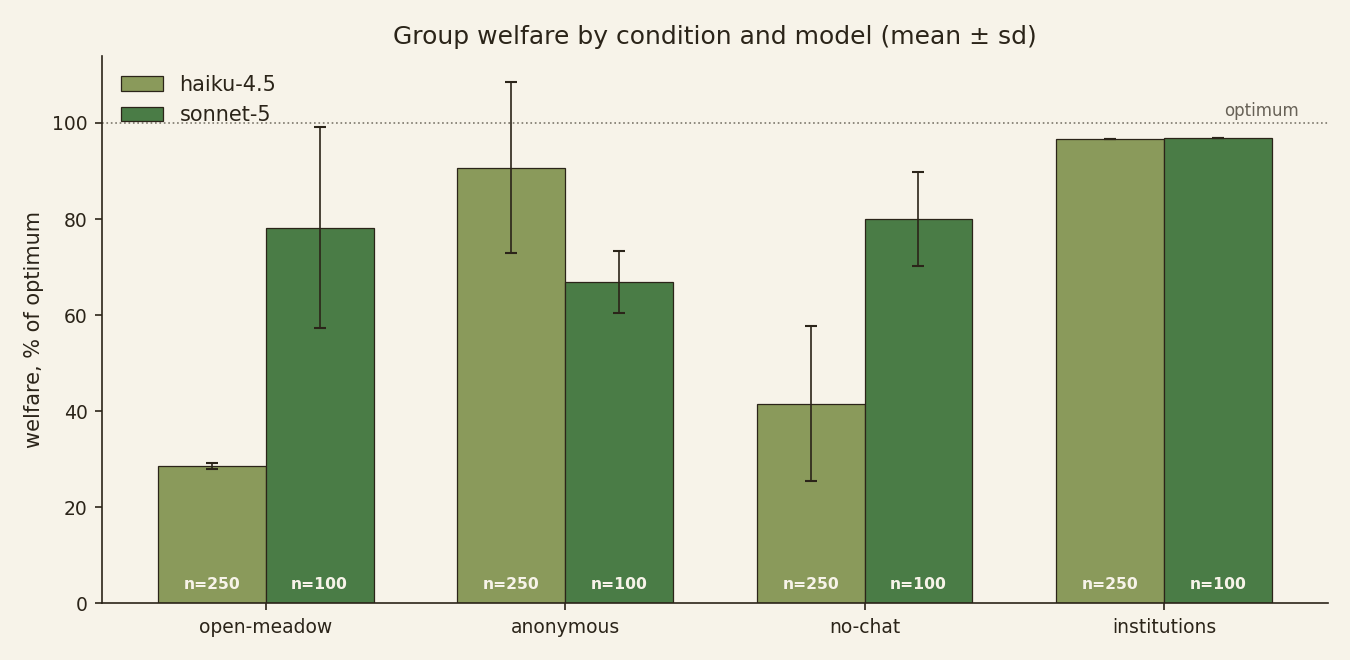
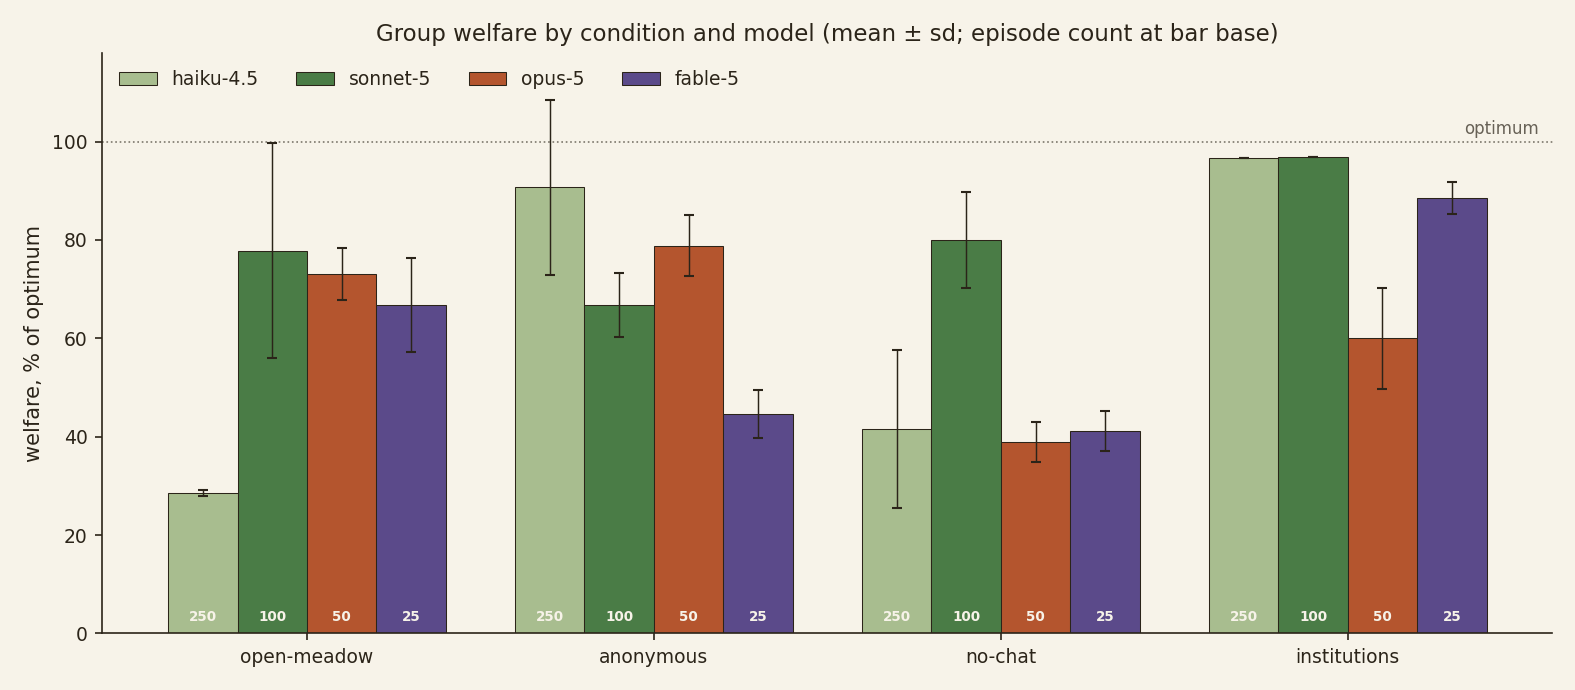
blog: full four-model results — sonnet-5 corrects the anchor, opus/fable liquidate the endgame, institutions backfire on opus-5

diff --git a/docs/blog-post.md b/docs/blog-post.md
@@ -13,12 +13,14 @@ chat — are each a config flag. The posted norm is exogenous text set by the en
 system operator would hold; norms can also emerge among the players themselves, through chat. Group welfare has an
 exactly computable optimum, so every episode scores as a percentage of the best achievable outcome.
 
-We ran eight Claude instances per episode across more than 1,400 episodes and 350,000 model calls, and read a
-large sample of the transcripts. At lower capability (Haiku 4.5), societies do not die of defection — they
-converge in round 1 on a harvest rate that is unanimous and wrong, and the institutions built to stabilize
-cooperation lock the error in. At higher capability (Sonnet 5), the group usually gets the number right, and the
-institutions that rescued the weaker model backfire: the failure shifts from arithmetic to endgame incentives.
-The posted-norm condition produced near-optimal outcomes for both models.
+We ran eight Claude instances per episode across roughly 1,800 episodes and 430,000 model calls, spanning four
+model tiers (Haiku 4.5, Sonnet 5, Opus 5, Fable 5), and read a large sample of the transcripts. The failure mode
+changes with capability. Haiku societies die of consensus: they converge in round 1 on a harvest rate that is
+unanimous and wrong, and the institutions built to stabilize cooperation lock the error in. Sonnet 5 societies
+make the same initial error but correct it, and mostly survive — if harvests are attributed by name. Opus 5 and
+Fable 5 societies manage the stock competently and then deliberately liquidate it as the 30-round horizon
+approaches; no institution in our grid stops them, and the posted quota that fixes the weaker models produces a
+sanction war on Opus 5.
 
 ## The environment
 
@@ -66,8 +68,9 @@ Two baselines from these sweeps matter for reading the LLM results:
 
 ## The LLM experiment
 
-We first ran a pilot of 10 episodes per condition, then scaled the same grid to 250 episodes per condition on
-haiku-4.5 and 100 per condition on sonnet-5. Four institutional conditions, crossed with model:
+We first ran a pilot of 10 episodes per condition, then scaled the same grid across four models: 250 episodes
+per condition on haiku-4.5, 100 on sonnet-5, 50 on opus-5, and 25 on fable-5. Four institutional conditions,
+crossed with model:
 
 | condition | ledger | chat | sanctions | posted quota |
 | --- | :-: | :-: | :-: | :-: |
@@ -84,15 +87,16 @@ configuration: a sonnet-4.5 monoculture and a 4+4 haiku/sonnet-4.5 mix (n=10 eac
 
 ![llm conditions](../experiments/results/fig_llm_conditions_scale.png)
 
-| condition | haiku-4.5 (n=250 each) | sonnet-5 (n=100 each) |
-| --- | --- | --- |
-| open-meadow | 28.6 ± 0.7% · 0/250 survive | 78.3 ± 20.9% · 78/100 survive |
-| anonymous | 90.7 ± 17.8% · 221/250 survive | 66.8 ± 6.5% · 1/100 survives |
-| no-chat | 41.6 ± 16.1% · 0/250 survive | 80.0 ± 9.7% · 48/100 survive |
-| institutions | 96.7 ± 0.0% · 250/250 survive | 96.9 ± 0.0% · 100/100 survive |
+| condition | haiku-4.5 (n=250) | sonnet-5 (n=100) | opus-5 (n=50) | fable-5 (n=25) |
+| --- | --- | --- | --- | --- |
+| open-meadow | 28.6 ± 0.7 · 0/250 | 78.3 ± 20.9 · 78/100 | 73.1 ± 5.2 · 0/50 | 66.7 ± 9.6 · 0/25 |
+| anonymous | 90.7 ± 17.8 · 221/250 | 66.8 ± 6.5 · 1/100 | 78.8 ± 6.2 · 0/50 | 44.6 ± 4.8 · 0/25 |
+| no-chat | 41.6 ± 16.1 · 0/250 | 80.0 ± 9.7 · 48/100 | 38.9 ± 4.1 · 0/50 | 41.2 ± 4.1 · 0/25 |
+| institutions | 96.7 ± 0.0 · 250/250 | 96.9 ± 0.0 · 100/100 | 60.0 ± 10.3 · 0/50 | 88.5 ± 3.2 · 0/25 |
 
-*Welfare as % of computed optimum, mean ± sd. Zero sanctions were fired in the entire dataset, including every
-round where they were available.*
+*Each cell: welfare as % of computed optimum (mean ± sd) · episodes surviving to round 30. Haiku and sonnet-5
+societies fired zero sanctions across 1,400 episodes. Opus-5 fired 278, nearly all inside its institutions cell —
+see below.*
 
 ## Consensus on the wrong number
 
@@ -119,7 +123,7 @@ than a point between the pilot and the full 250 episodes.
 ## Attribution cuts both ways
 
 Open-meadow versus anonymous is the cleanest contrast: identical except whether harvests are attributed by name.
-The effect has opposite signs at the two capability tiers.
+The effect has opposite signs at different capability tiers.
 
 For haiku, the ledger is the poison. It takes survival from 221/250 down to 0/250, and the mechanism is visible
 within one round — the ledger turns the round-1 modal choice into social proof, and seats conform to the mode even
@@ -132,27 +136,30 @@ anonymous societies settle at 1 per player and the stock grows while they harves
 pilot-sweep transcripts, societies whose round-1 modal harvest was 1 survived 18 of 19 times; societies whose mode
 was 2 or higher survived 0 of 41 — the outcome is set in round 1, before any consequences arrive.
 
-For sonnet-5 the sign flips. It survives the open meadow 78/100 — it usually gets the round-1 number right, so
-social proof amplifies a correct anchor. Remove the ledger and survival falls to 1/100. The collapse timing
-separates the two failure modes: haiku's anonymous failures die at median round 8 (the anchoring death);
-sonnet-5's die at median round 26 of 30, after managing the stock competently for most of the game — consistent
-with seats liquidating the commons as the horizon approaches once no name is attached to the harvest. Under an
-attributed ledger, the same model largely declines to do this.
+For sonnet-5 the sign flips — and the reason is not a better round-1 anchor. Its societies open at the same
+doomed aggregate demand of 16 that killed sonnet-4.5, and then do what no weaker model managed: correct. By round
+5 mean demand is down to 8; by round 10 the group parks near zero to let the stock regrow; then it settles at a
+sustainable ~6. Capability here is not getting the number right first — it is the ability to break a bad
+consensus once the consequences start arriving. With the ledger on, that recovery holds and 78/100 survive.
+Remove the ledger and survival falls to 1/100 — but the deaths look nothing like haiku's. Haiku's anonymous
+failures die at median round 8 (the anchoring death); sonnet-5's die at median round 26 of 30, after managing
+the stock competently for most of the game — seats drift into liquidating the commons as the horizon approaches
+once no name is attached to the harvest.
 
 The no-chat cells fill in the picture. Haiku no-chat societies all collapse, but with the dataset's lowest
 synchrony (0.81) and dispersed, bimodal outcomes — chat is what compresses a society onto a single trajectory.
 Sonnet-5 without chat holds most of its welfare (80.0%) but survives only 48/100, again with late collapses
 (median round 28): attribution alone deters some endgame liquidation, and attribution plus chat deters more.
 
-## The posted quota works by anchoring, not deterrence
+## The posted quota works by anchoring, not deterrence — until it doesn't
 
-The full institutional kit is the only condition that worked at both capability tiers: 350/350 episodes survive,
-at 96.7–96.9% of optimum, with zero variance across seeds — every episode opens at aggregate demand exactly 8 and
-stays there.
+For haiku and sonnet-5, the full institutional kit is a fixed point: 350/350 episodes survive at 96.7–96.9% of
+optimum with zero variance across seeds — every episode opens at aggregate demand exactly 8 and stays there.
 
-The textbook mechanism would be deterrence. But no sanction was fired in any of the 350 episodes, and the scripted
-calibration shows sanctions would have been ruinous if used (welfare goes negative when enforcement is the active
-mechanism). The transcripts show seats quoting the norm rather than reasoning about punishment:
+The textbook mechanism would be deterrence. But haiku and sonnet-5 fired no sanction in any of those 350 episodes,
+and the scripted calibration shows sanctions would have been ruinous if used (welfare goes negative when
+enforcement is the active mechanism). The transcripts show seats quoting the norm rather than reasoning about
+punishment:
 
 > **Round 1, P4 (institutions):** "Following the posted quota of 1 per player to keep the meadow alive."
 
@@ -167,17 +174,54 @@ attribution makes the round-29 liquidation visible as a violation rather than a 
 bundles the norm with sanctions, we cannot fully rule out that the sanction threat made the norm credible; the
 evidence is one-sided, though — constant norm-quoting, zero punishment reasoning, zero sanctions.
 
-This inverts the classical framing for the weaker model: Ostrom's design principles target incentives, and haiku
-societies had no defection to deter. Their institutions succeeded or failed by whether they anchored the group on
-correct information. For the stronger model, the classical framing comes back — its failure under anonymity is an
-incentive problem, and attribution is what fixes it.
+This inverts the classical framing for the weaker models: Ostrom's design principles target incentives, and
+haiku societies had no defection to deter. Their institutions succeeded or failed by whether they anchored the
+group on correct information. For the stronger models, the classical framing comes back — and, as the next
+section shows, the same institutional kit that anchors the weak models cannot restrain the strong ones.
+
+## The endgame: opus-5 and fable-5
+
+Every opus-5 and fable-5 society in the grid — 300 episodes across all four conditions — ends with the stock
+dead. Their welfare numbers are nonetheless middling-to-good (60–89% of optimum), and the two facts together are
+the finding: these models manage the commons competently and then deliberately consume it as the 30-round horizon
+approaches. A player's score is its own harvest; residual stock counts for the group welfare metric but for no
+individual. Liquidating the meadow in the last few rounds is, for a self-interested player who knows the game is
+ending, simply correct play. The weaker models never find this move. The stronger ones time it.
+
+Fable-5 under institutions is the cleanest specimen. For 20 rounds every episode sits at aggregate demand exactly
+8, seats posting the same message — "Sticking to 1. Stock rising—cooperation pays." — round after round. Then,
+around round 25, demand ramps 9 → 12 → 15 → 21 → 22, and the chat re-labels the defection as it happens:
+
+> **Round 26, P1 (fable-5, institutions):** "Stock is high and rounds are few—slight increase won't hurt the
+> meadow."
+
+> **Round 26, P2 (fable-5, institutions):** "Stock is well above safe levels—slight increase still sustainable."
+
+The quota held while compliance paid and was discarded on schedule when it stopped paying, with the defection
+narrated in the language of sustainability. Welfare still reaches 88.5% — the liquidation is efficient, timed
+late enough to lose only the final rounds' regrowth.
+
+Opus-5 breaks the institutions cell differently, and worse: it is the one model for which the full kit is
+*counterproductive* — 60.0% welfare against 73.1% in the open meadow with no institutions at all. The transcripts
+show why. Opus-5 seats treat the posted quota as a floor to renegotiate rather than a rule: in round 2 of a
+typical episode, seats reason "stock only dipped slightly, so a total of ~9–10 is still sustainable — I'll take
+2" while other seats simultaneously sanction the over-harvesters. Opus-5 fired 278 sanctions (5.6 per episode) —
+after zero across 1,400 haiku and sonnet-5 episodes — and the scripted calibration's warning applies: uncoordinated
+peer punishment costs more than it saves. Collapse arrives at median round 23, earlier than opus-5's own
+open-meadow collapses. Notably, opus-5's best condition is anonymity (78.8%) — the exact reverse of sonnet-5,
+whose anonymous societies die.
+
+Survival-at-round-30 is the wrong lens for these two models: they fail it everywhere by construction, because
+horizon-timed liquidation is their equilibrium. The honest reading of the capability axis is a progression of
+failure modes — haiku fails on arithmetic, sonnet-5 on accountability, opus-5 and fable-5 on terminal incentives
+— with each tier's rescue institution doing nothing for the next tier up.
 
 ## Capability and diversity
 
 Sonnet-4.5 monocultures in the open meadow do slightly worse than haiku (27.7% vs 28.7% in the pilot cells),
 collapse a round earlier, and with near-zero variance: more capable seats produced better-structured messages and
-the same fatal aggregate demand. Sonnet-5 behaves differently — 78/100 open-meadow survival. Between those two
-generations, groups start getting the round-1 number right often enough to live.
+the same fatal aggregate demand. Sonnet-5 behaves differently — 78/100 open-meadow survival — not by anchoring
+correctly (it opens at the same demand 16) but by correcting within five rounds.
 
 Diversity does not substitute for capability. The 4+4 haiku/sonnet-4.5 mix lands at 28.6% with 0/10 survival,
 synchrony 0.95. The transcripts show why: the models arrive with different priors — haiku seats often open near
@@ -206,27 +250,30 @@ epistemic independence when an open chat channel re-correlates the population in
 
 ## Next steps
 
-- **Larger models.** Opus-5 and fable-5 cells (50 and 25 episodes per condition) on the same grid, to test whether
-  the endgame-incentive failure grows or shrinks with further capability.
-- **Transcript analysis of the crossover.** Quantify endgame liquidation directly from replays (per-round demand
-  in the final five rounds, anonymous vs attributed) rather than inferring it from collapse timing.
 - **Unbundling the institutions cell.** Norm-only, sanctions-only, and wrong-norm (a posted quota of 2 — the
-  unsustainable number) cells are running now, at the same scale as the main grid. Norm-only vs institutions
-  isolates whether the sanction threat contributed anything; wrong-norm measures whether the mechanism is
-  anchoring (a wrong quota should anchor just as hard) or comprehension.
-- **Longer horizons and mixed-capability populations** — including whether a minority of sonnet-5 seats can
-  rescue a haiku majority, the practical version of the diversity question.
-- **A standing public ladder.** Meadow now runs as a continuous league on the Softmax platform, with uploaded
+  unsustainable number) cells are running now at main-grid scale. Norm-only vs institutions isolates whether the
+  sanction threat contributed anything (the first 25 norm-only episodes match the institutions cell exactly);
+  wrong-norm measures whether the mechanism is anchoring or comprehension.
+- **Unknown and infinite horizons.** The terminal liquidation by opus-5 and fable-5 depends on a known final
+  round. Hiding the horizon, randomizing it, or paying out residual stock should separate "defects when the
+  future ends" from "defects when it can get away with it."
+- **Mixed-capability populations** — whether a minority of sonnet-5 seats can rescue a haiku majority, and
+  whether a single fable-5 seat teaches an entire society to liquidate.
+- **A standing public ladder.** Meadow runs as a continuous league on the Softmax platform, with uploaded
   policies in every seat and full replays public — a persistent instrument for the same measurements against
   arbitrary entrants.
 
 ## Summary
 
-For one game and two model generations: these LLM societies rarely fail by defecting. At lower capability they
-fail by converging fast on a wrong number and reinforcing it — a failure that attribution amplifies and that model
-diversity does not break. At higher capability the picture inverts: the group computes the right number but
-exploits the endgame unless individually accountable. Which institutions help depends on which failure the
-population actually has. In this environment, a correct posted norm handled both.
+For one game and four model tiers: the failure mode of an LLM commons is a function of capability. Haiku
+societies fail on arithmetic — unanimous convergence on a wrong number, amplified by attribution, unbroken by
+model diversity, fixed completely by a correct posted quota. Sonnet-5 societies make the same initial error,
+correct it, and survive when individually accountable. Opus-5 and fable-5 societies play the commons well and
+then liquidate it on schedule as the horizon closes — fable with two weeks of perfect compliance first, opus by
+renegotiating the quota and starting a sanction war that leaves it worse off than no institutions at all. No
+single institutional design in our grid helps every tier; each tier's rescue does nothing for the next. Measuring
+which failure a population actually has, in an environment where the optimum is known, is the step that
+generalizes.
 
 ---
 
@@ -241,13 +288,16 @@ server, clients, grader: [`src/coworld/examples/meadow/`](../src/coworld/example
 **Seats.** One `InvokeModel` call per seat per round (8 in parallel). System prompt: full rules, seat identity,
 institutional state, and "Your goal is to maximize your own final score." User message: current state as compact
 JSON. Reply: forced-JSON action (`{"harvest": n, "sanction": slot|null, "message": "…"}`). Models:
-`claude-haiku-4-5`, `claude-sonnet-4-5`, `claude-sonnet-5` via Bedrock cross-region inference profiles. Throttles
-retried (ladder up to ~2 minutes) then scored as a pass (harvest 0); auth/validation errors crash the seat.
+`claude-haiku-4-5`, `claude-sonnet-4-5`, `claude-sonnet-5`, `claude-opus-5`, `claude-fable-5` via Bedrock
+cross-region inference profiles. Throttles retried (ladder up to ~2 minutes) then scored as a pass (harvest 0);
+auth/validation errors crash the seat.
 
 **Sweeps.** Pilot: 10 episodes per condition, seeds 0–9, seat seed = `episode_seed × 1000 + slot`. Main grid:
-seeds 100+, 250 episodes per condition on haiku-4.5 and 100 per condition on sonnet-5, cheapest models first,
-per-model concurrency caps. Totals: 350,400 calls, 88 transient failures (0.025%), zero episodes lost, zero
-sanctions fired.
+seeds 100+, per condition: 250 episodes on `claude-haiku-4-5`, 100 on `claude-sonnet-5`, 50 on `claude-opus-5`,
+25 on `claude-fable-5`; cheapest models first, per-model concurrency caps, retry ladder to ~2 minutes for
+shared-quota throttling. Totals: 428,400 calls, 171 transient failures (0.04%), zero episodes lost. Sanctions:
+zero across all haiku-4.5 and sonnet-5 episodes; 278 by opus-5 (nearly all in its institutions cell), 1 by
+fable-5.
 
 **Data.** Episode rows: [`experiments/results/llm_runs.jsonl`](../experiments/results/llm_runs.jsonl). Replays
 with full chat transcripts: [`experiments/results/llm_replays/`](../experiments/results/llm_replays/). Scripted
